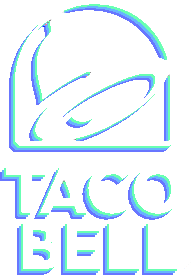
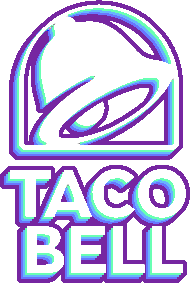
nuevo icono añadido

diff --git a/src/view/VLogin.java b/src/view/VLogin.java
@@ -38,6 +38,7 @@ import java.awt.Frame;
 
 import javax.swing.JSeparator;
 import javax.swing.ImageIcon;
+import java.awt.Toolkit;
 
 public class VLogin extends JFrame implements ActionListener, FocusListener {
 
@@ -74,6 +75,7 @@ public class VLogin extends JFrame implements ActionListener, FocusListener {
 	 * Create the frame.
 	 */
 	public VLogin() {
+		setIconImage(Toolkit.getDefaultToolkit().getImage(VLogin.class.getResource("/resources/icon_marca_notext.png")));
 
 		setUndecorated(true);
 		setResizable(false);
